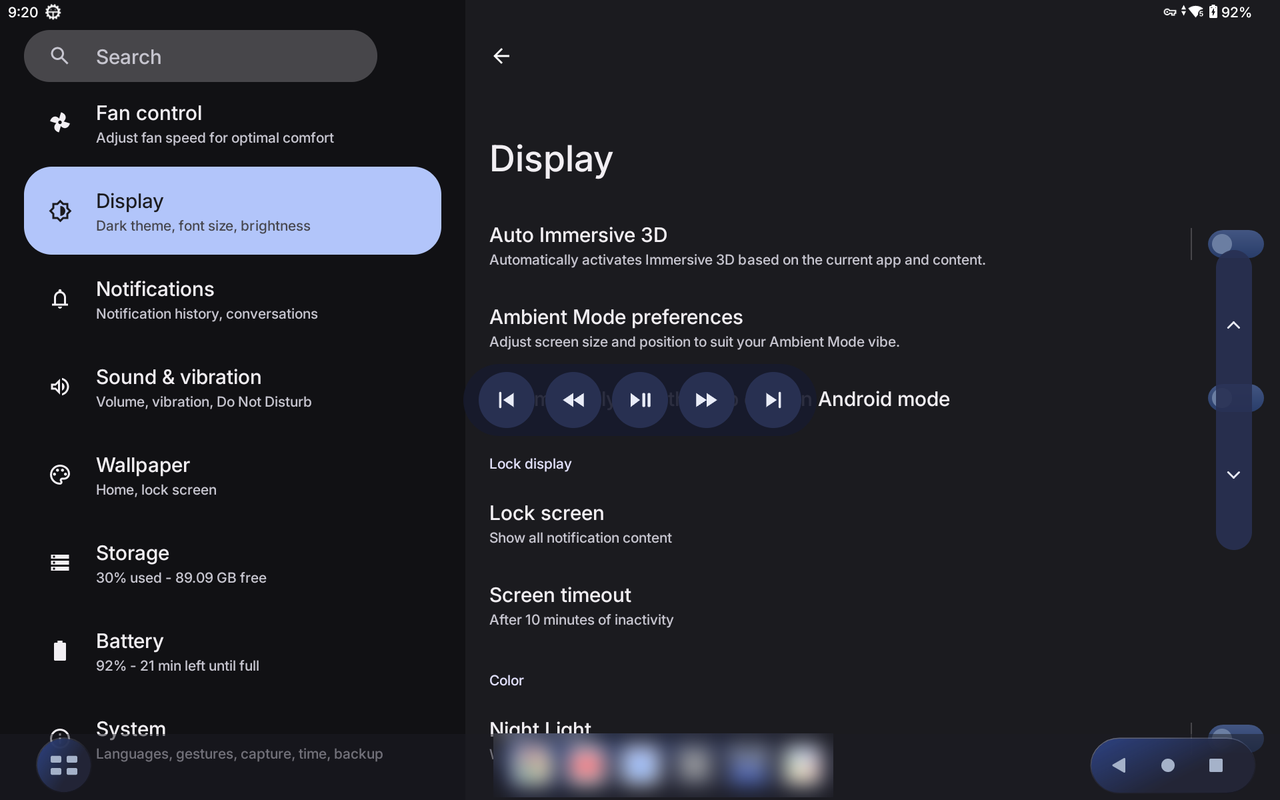
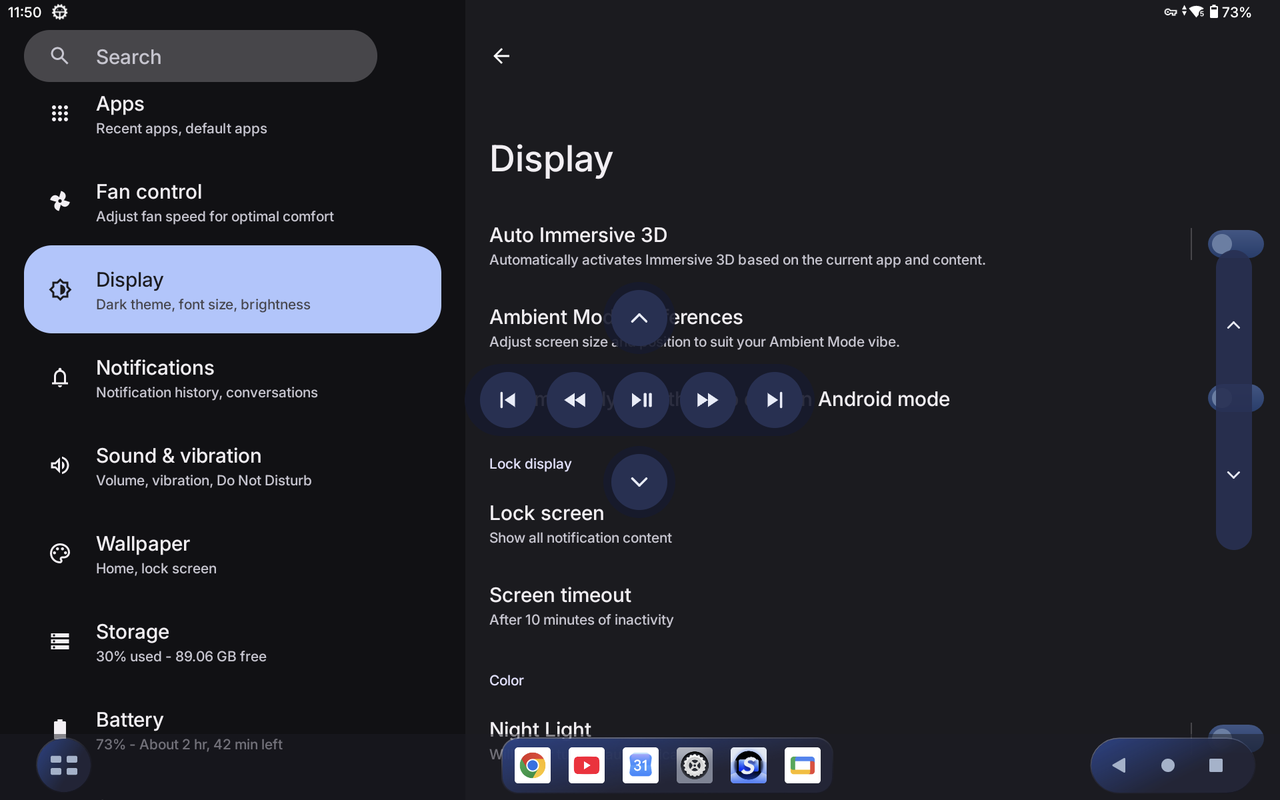
TV Home 1.0.0: media bar keeps its full width; new edge controls screenshots
Claude-Session: https://claude.ai/code/session_01VUf44TcDJLfxdnnXui99Bk

diff --git a/tvhome/src/com/hoang/vhome/EdgeControls.java b/tvhome/src/com/hoang/vhome/EdgeControls.java
@@ -156,10 +156,11 @@ final class EdgeControls {
             col.setOrientation(LinearLayout.VERTICAL);
             col.setGravity(Gravity.CENTER_HORIZONTAL);
             col.addView(feedButton(Icon.UP, -1), feedLp(false));
-            col.addView(row);
+            col.addView(row, new LinearLayout.LayoutParams(LinearLayout.LayoutParams.WRAP_CONTENT, LinearLayout.LayoutParams.WRAP_CONTENT));
             col.addView(feedButton(Icon.DOWN, 1), feedLp(true));
-            mediaBar.addView(col);
-            WindowManager.LayoutParams ml = params(WindowManager.LayoutParams.WRAP_CONTENT, WindowManager.LayoutParams.WRAP_CONTENT);
+            mediaBar.addView(col, new FrameLayout.LayoutParams(FrameLayout.LayoutParams.MATCH_PARENT, FrameLayout.LayoutParams.WRAP_CONTENT));
+            // explicit width: a wrap-content window is first measured at dialog width, which squeezed the row
+            WindowManager.LayoutParams ml = params(dp(5 * 66 + 20), WindowManager.LayoutParams.WRAP_CONTENT);
             ml.flags |= WindowManager.LayoutParams.FLAG_WATCH_OUTSIDE_TOUCH;
             ml.gravity = Gravity.CENTER;
             wm.addView(mediaBar, ml);

diff --git a/README.md b/README.md
@@ -472,9 +472,9 @@ It scrolls the largest scrollable area of the app in front, so it works in lists
 
 **Media bar**
 
-<p align="center"><img src="docs/img/edge-media.png" alt="The media bar: previous, back, play/pause, forward, next" width="420"></p>
+<p align="center"><img src="docs/img/edge-media.png" alt="The media bar: scroll up above; previous, back, play/pause, forward, next; scroll down below" width="400"></p>
 
-Previous, skip back, play/pause, skip forward, next, with a **scroll up** button centred above the bar and a **scroll down** button below it: in YouTube Shorts and similar feeds they move to the previous or next clip without leaving the media controls (the bar picture predates them). When nothing plays it stays hidden. In YouTube, which ignores the standard skip keys, the skip buttons double-tap the left or right part of the player, exactly as you would with a finger (10 seconds by default, adjustable in YouTube's settings); other apps get the standard media keys and choose their own skip length.
+Previous, skip back, play/pause, skip forward, next, with a **scroll up** button centred above the bar and a **scroll down** button below it: in YouTube Shorts and similar feeds they move to the previous or next clip without leaving the media controls. When nothing plays it stays hidden. In YouTube, which ignores the standard skip keys, the skip buttons double-tap the left or right part of the player, exactly as you would with a finger (10 seconds by default, adjustable in YouTube's settings); other apps get the standard media keys and choose their own skip length.
 
 Both stay open while you use them (pressing a media button never closes them), and close on a click anywhere else or 2 seconds after the cursor was last on them. A cursor that only sweeps past the edge does not open them: it has to rest there for a moment. Switch the feature off in Settings if you never want it. Neckband buttons cannot open them, because Viture keeps the volume buttons for itself while head gaze is on.
 
